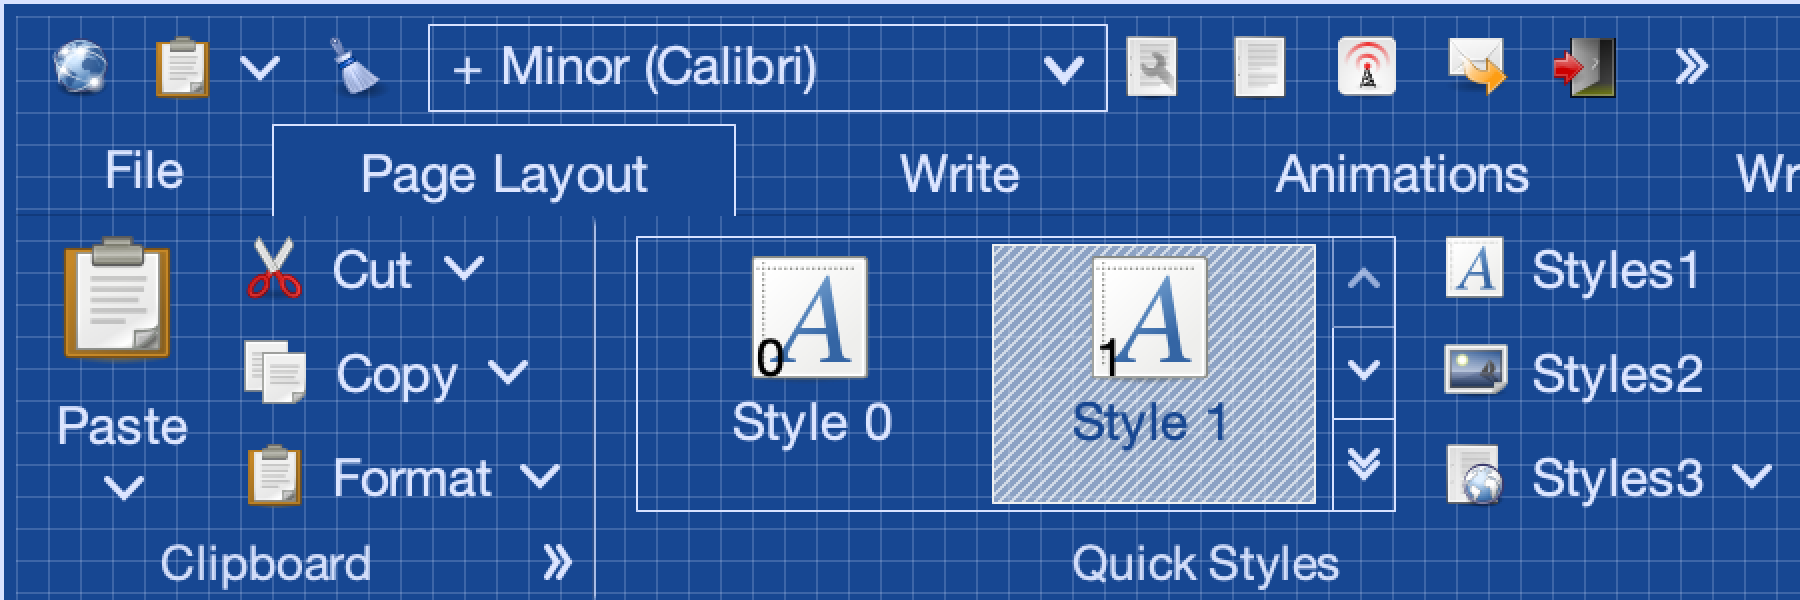
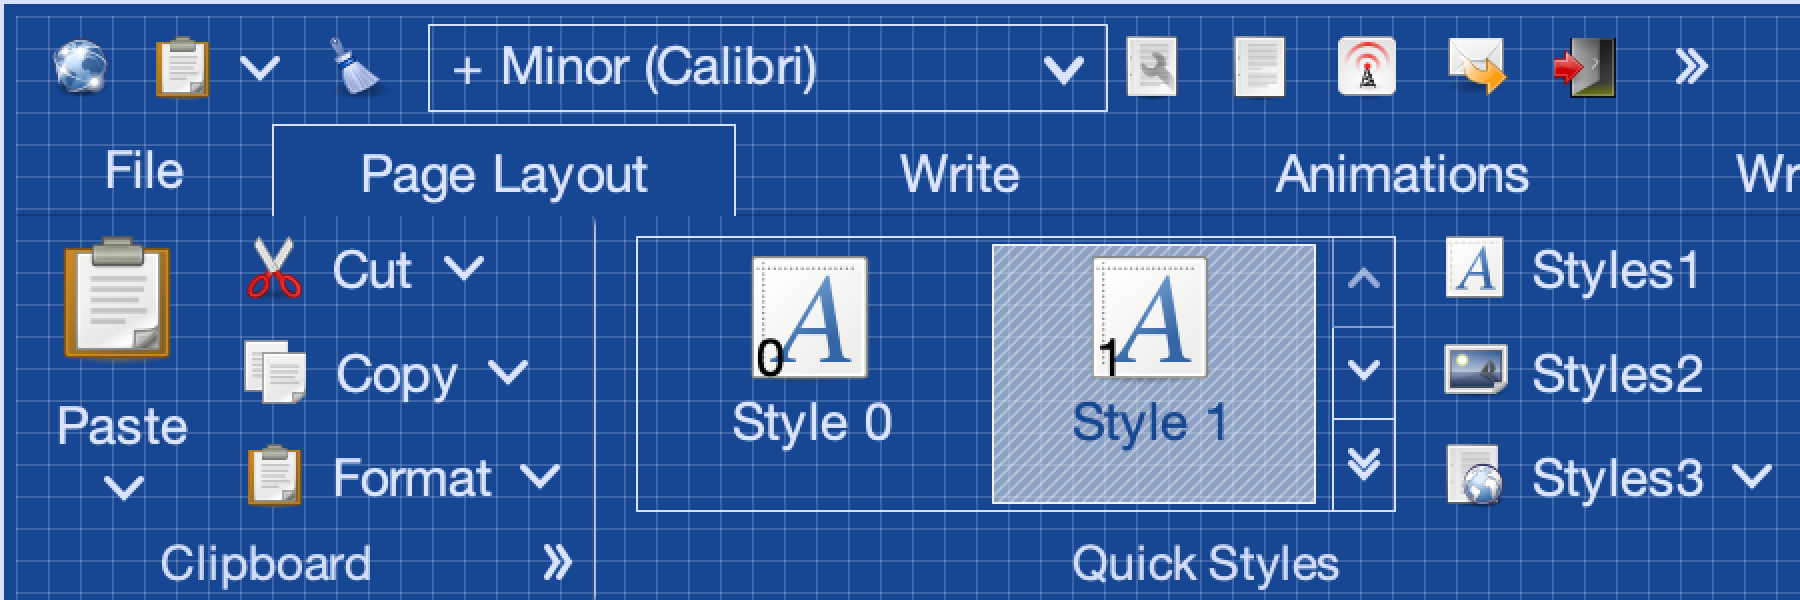
Tweak the active visuals of Blueprint
For #583

Changed region(s): [[0.56, 0.39, 0.7467, 0.84]]

diff --git a/theming/src/main/java/org/pushingpixels/radiance/theming/api/skin/BlueprintSkin.java b/theming/src/main/java/org/pushingpixels/radiance/theming/api/skin/BlueprintSkin.java
@@ -403,7 +403,7 @@ public class BlueprintSkin extends RadianceSkin {
 
 			int iHeight = (int) Math.ceil(height);
 
-			g2d.setColor(colorTokens.getContainerSurfaceLow());
+			g2d.setColor(RadianceColorUtilities.getAlphaColor(colorTokens.getContainerSurfaceLow(), 128));
 			g2d.setStroke(new BasicStroke(stripeWidth));
 			g2d.setRenderingHint(RenderingHints.KEY_ANTIALIASING, RenderingHints.VALUE_ANTIALIAS_OFF);
 			for (int x = 0; x <= (width + height); x += stepWidth) {
